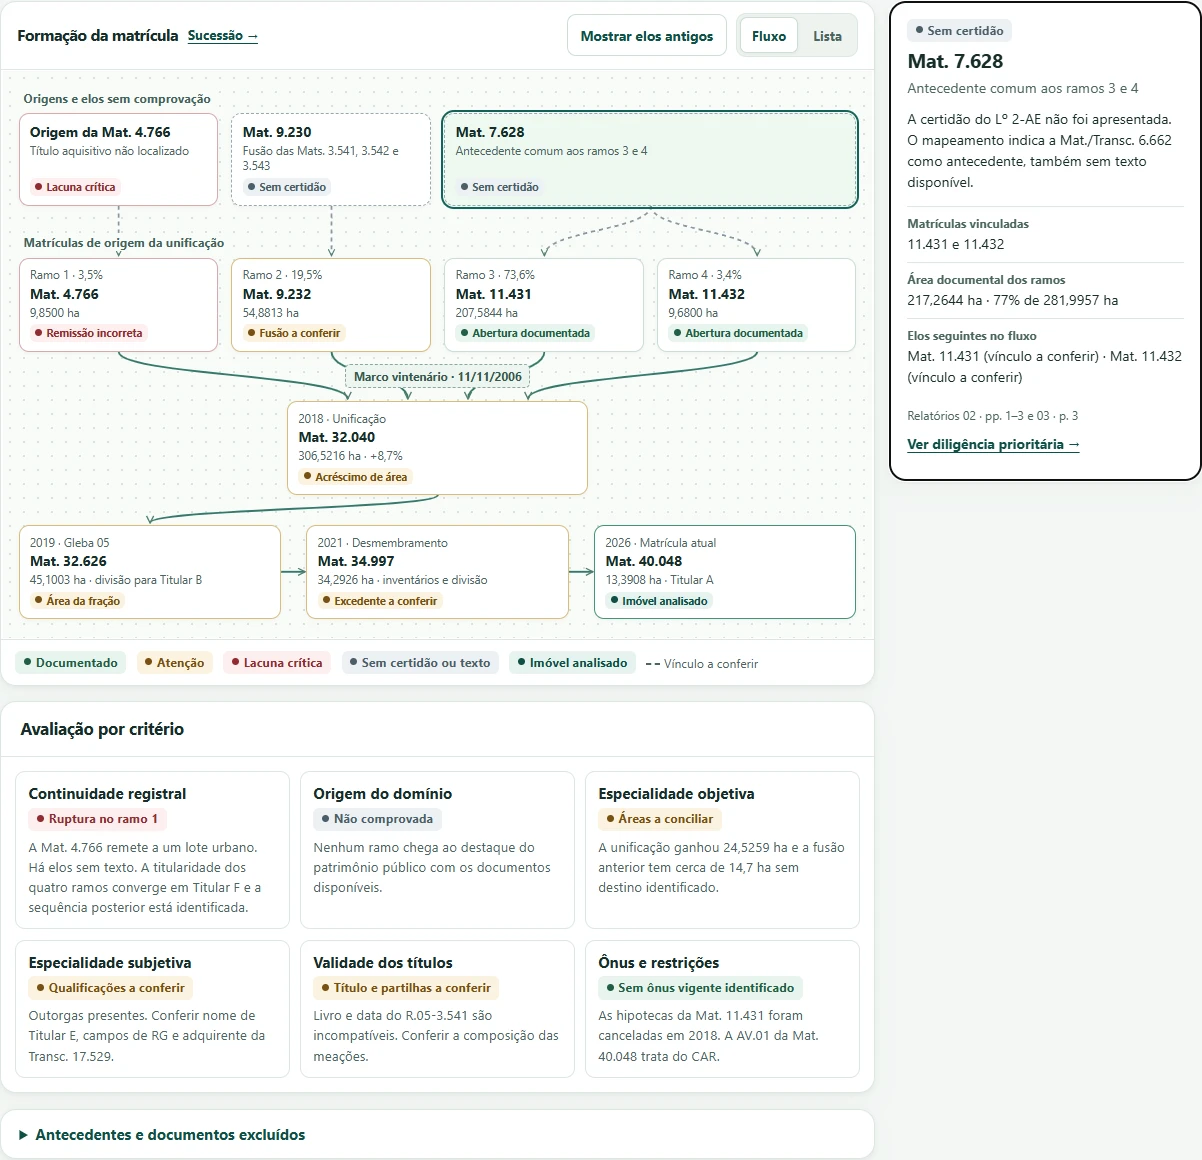
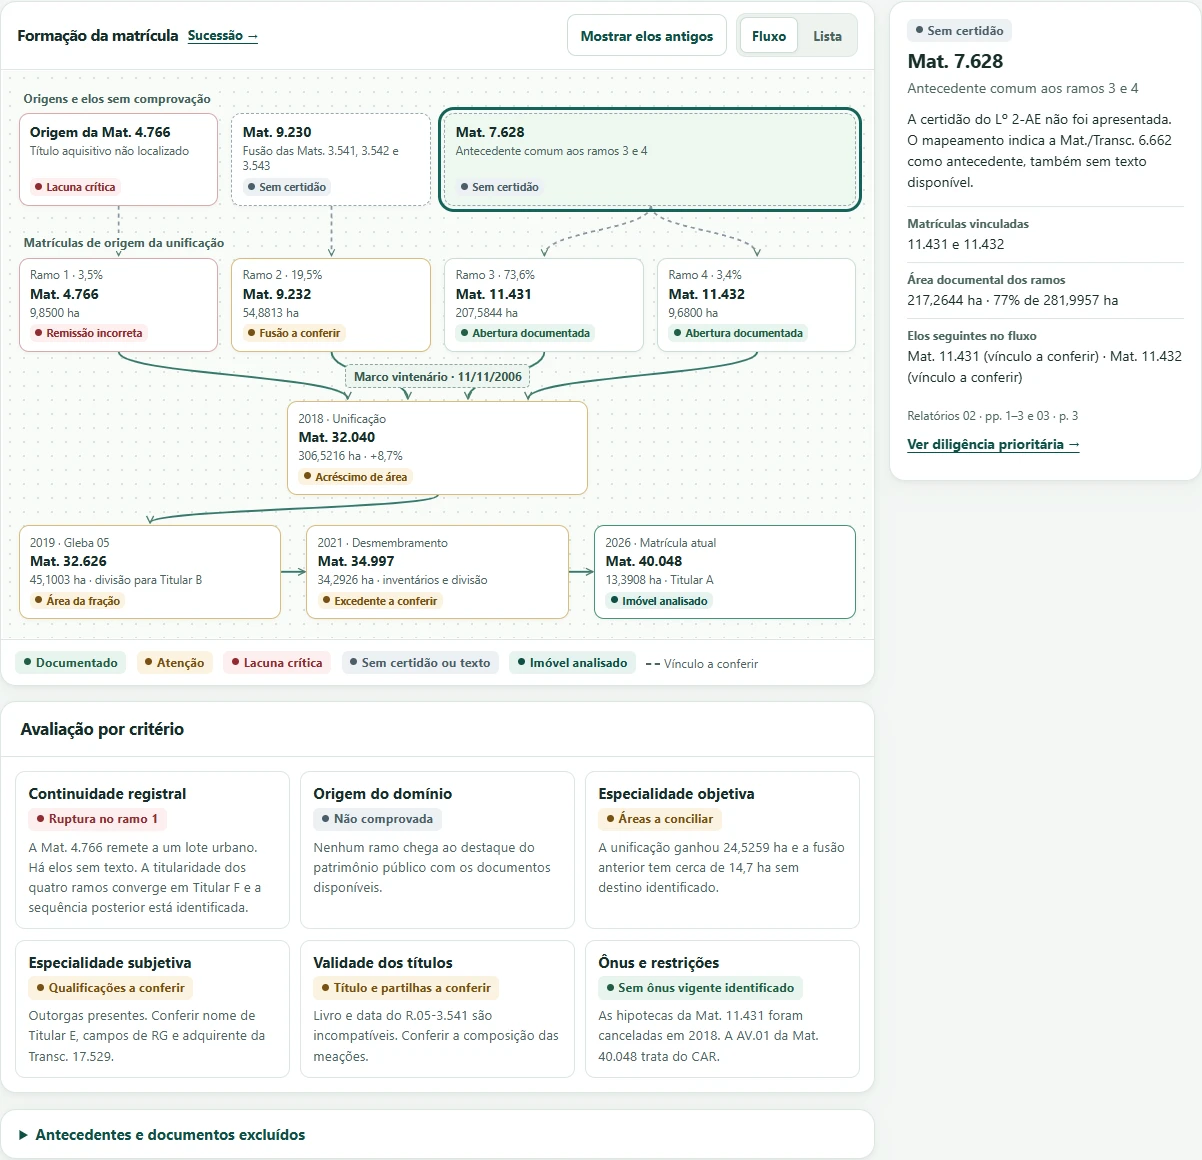
Padroniza a Tri7 e dá foco aos elos da cadeia Atlas

Changed region(s): [[0.3386, 0.0931, 0.7388, 0.1862], [0.985, 0.0, 1.0, 0.4034], [0.7388, 0.0, 0.7696, 0.031]]

diff --git a/public/reports/prototipo-atlas-2026-11-13.html b/public/reports/prototipo-atlas-2026-11-13.html
@@ -3,7 +3,7 @@
 <head>
   <meta charset="utf-8">
   <!-- Atualize os hashes SHA-256 desta política ao editar os blocos de estilo ou script. -->
-  <meta http-equiv="Content-Security-Policy" content="default-src 'none'; script-src 'sha256-ED+GocgzsDQOvp0xRZuHsrbJz97uKvmdtKTKizDVZRc='; style-src 'sha256-9xb1q2VTFPabRIztEfLVDv0dGW3eRWlcO4mu8b+QSy8='; img-src data:; base-uri 'none'; form-action 'none'">
+  <meta http-equiv="Content-Security-Policy" content="default-src 'none'; script-src 'sha256-TyxYKiEdbDGqTr/AIgNMs/5WHhEbLOk+r47dH/zar4c='; style-src 'sha256-+CFyVixWUwPgIOAU2yxZ5v0F8MsUt51MHb2PwPJdKYU='; img-src data:; base-uri 'none'; form-action 'none'">
   <meta name="viewport" content="width=device-width, initial-scale=1">
   <meta name="color-scheme" content="light">
   <meta name="theme-color" content="#f4f7f5">
@@ -229,6 +229,7 @@
       position: relative; display: flex; flex-direction: column; align-items: flex-start; min-width: 0;
       gap: .13rem; text-align: left; color: var(--ink); background: var(--paper); border: 1px solid #cbded4;
       padding: .55rem .63rem; border-radius: 10px; box-shadow: 0 1px 3px #17392c0c;
+      scroll-margin: .45rem;
     }
     .node:hover { border-color: #649684; background: #f3f9f5; }
     .node[aria-pressed="true"] { outline: 2px solid var(--teal); outline-offset: 1px; background: #edf8f0; }
@@ -463,7 +464,7 @@
               <div><dt>Ônus vigentes</dt><dd>Nenhum identificado na Mat. 40.048</dd></div>
               <div><dt>AV.01</dt><dd>Traslado da inscrição no CAR</dd></div>
             </dl>
-            <div class="card-foot"><a class="text-link" href="#conferencia">Ver conferência com o Tri7 <span class="arrow" aria-hidden="true">&nbsp;→</span></a></div>
+            <div class="card-foot"><a class="text-link" href="#conferencia">Ver conferência com a Tri7 <span class="arrow" aria-hidden="true">&nbsp;→</span></a></div>
           </article>
         </div>
         <div class="scope-grid" role="group" aria-label="Recortes da cadeia dominial" data-interactive>
@@ -662,7 +663,7 @@
         </div>
       </section>
       <section id="conferencia" data-section tabindex="-1" aria-labelledby="heading-conferencia">
-        <div class="section-heading"><div><h2 id="heading-conferencia">Conferência com o Tri7</h2><p>Compare o cadastro, a leitura original e o resultado da revisão documental.</p></div></div>
+        <div class="section-heading"><div><h2 id="heading-conferencia">Conferência com a Tri7</h2><p>Compare o cadastro, a leitura original e o resultado da revisão documental.</p></div></div>
         <div class="stack">
           <article class="card" data-interactive>
             <div class="findings-toolbar row between">
@@ -733,11 +734,11 @@
                 <ul><li><span class="archive-value">Ocorrência relacionada ao imóvel</span><span class="archive-value"> · Av.1</span></li>
                 </ul></div>
               </details>
-              <details class="archive-item"><summary>Conferência original com o Tri7</summary>
+              <details class="archive-item"><summary>Conferência original com a Tri7</summary>
                 <div><div><p class="archive-heading">Conferência com o sistema Tri7</p>
                 <span class="archive-control">Atualizar</span></div>
                 <div><p><span class="archive-value"><span></span>5 conferem</span><span class="archive-value"><span></span>0 divergem</span><span class="archive-value"><span></span>5 só de um lado</span></p>
-                <div class="archive-table-scroll" role="region" aria-label="Comparação original com o Tri7" tabindex="0"><table><thead><tr><th>Campo</th><th>Cadastro Tri7</th><th>Leitura do Atlas</th><th>Veredito</th></tr>
+                <div class="archive-table-scroll" role="region" aria-label="Comparação original com a Tri7" tabindex="0"><table><thead><tr><th>Campo</th><th>Cadastro Tri7</th><th>Leitura do Atlas</th><th>Veredito</th></tr>
                 </thead><tbody><tr><td>Situação</td></tr>
                 <tr><td>Situação da matrícula</td><td>Ativo</td><td>ATIVA</td><td><span class="archive-value"><span></span>Confere</span></td></tr>
                 </tbody>
@@ -932,7 +933,7 @@
         id: 'precisao-area', type: 'attention', title: 'Área comparada com precisões diferentes',
         impact: 'A captura exibe 13,39 ha no cadastro e 13,3908 ha na leitura. Se os números forem exatos, a diferença equivale a 8 m².',
         action: 'Conferir o valor armazenado e eventual arredondamento antes de marcar como igual.',
-        source: 'Captura Atlas · Conferência com o Tri7', link: '#conferencia', linkLabel: 'Ver comparação'
+        source: 'Captura Atlas · Conferência com a Tri7', link: '#conferencia', linkLabel: 'Ver comparação'
       },
       {
         id: 'qualificacao-pessoas', type: 'attention', title: 'Erros materiais de nome e RG',
@@ -1245,6 +1246,7 @@
     const sections = [...document.querySelectorAll('[data-section]')];
     const smallDetail = matchMedia('(max-width: 1080px)');
     const mobile = matchMedia('(max-width: 710px)');
+    const reducedMotion = matchMedia('(prefers-reduced-motion: reduce)');
     const state = { scope: 'completa', node: 'm40048', view: null, filter: 'risk', compare: 'review', expanded: false };
     const filters = [
       ['all', 'Todos'], ['block', 'Impeditivos'], ['risk', 'Podem impedir'],
@@ -1510,22 +1512,25 @@
       drawRequest = requestAnimationFrame(drawEdges);
     }
 
-    function focusTarget(target, block = 'start') {
+    function focusTarget(target, block = 'start', smooth = false) {
       target.focus({ preventScroll: true });
-      if (block) target.scrollIntoView({ block });
+      if (block) target.scrollIntoView({
+        block, inline: 'nearest', behavior: smooth && !reducedMotion.matches ? 'smooth' : 'auto'
+      });
     }
 
     function selectNode(id) {
       state.node = id;
       if (!setRoute(`#cadeia/${state.scope}/${id}`, true)) return;
       renderNodeDetail(true);
-      if (smallDetail.matches) focusTarget(get('node-detail'));
+      if (smallDetail.matches) focusTarget(get('node-detail'), 'start', true);
+      else focusNode(id, 'nearest');
     }
 
-    function focusSelectedNode() {
+    function focusNode(id = state.node, block = 'center') {
       const container = get('flow-list').hidden ? get('diagram') : get('flow-list');
-      const node = container.querySelector(`[data-id="${state.node}"]`);
-      node?.focus();
+      const node = container.querySelector(`[data-id="${id}"]`);
+      if (node) focusTarget(node, block, true);
     }
 
     function setRoute(hash, replace = false) {
@@ -1591,8 +1596,11 @@
         state.node = isNode ? chainTarget : chainTarget === 'sucessao' || target?.id === 'sucessao' ? 'm34997' : 'm40048';
         if (Object.hasOwn(earlyNodes, state.node)) state.expanded = true;
         renderChain();
-        if (isNode) target = get('node-detail');
-        else if (chainAnchors.has(chainTarget)) target = get(chainAnchors.get(chainTarget));
+        if (isNode && !keepPosition && !sectionStart) {
+          focusNode();
+          return;
+        }
+        if (chainAnchors.has(chainTarget)) target = get(chainAnchors.get(chainTarget));
       } else if (section.id === 'achados') {
         const item = findings.find((finding) => finding.id === detail || `achado-${finding.id}` === target?.id);
         if (item) state.filter = item.type;
@@ -1677,7 +1685,7 @@
     get('cadeia').addEventListener('click', (event) => {
       const node = event.target.closest('.node[data-id]');
       if (node) selectNode(node.dataset.id);
-      if (event.target.closest('.return-to-node')) focusSelectedNode();
+      if (event.target.closest('.return-to-node')) focusNode();
     });
     get('copy-summary').addEventListener('click', openSummary);
     get('copy-text').addEventListener('click', copySummary);
@@ -1687,7 +1695,12 @@
       event.preventDefault();
       navigate(link.hash);
     });
-    mobile.addEventListener('change', () => { if (activeSection?.id === 'cadeia') renderView(); });
+    mobile.addEventListener('change', () => {
+      if (activeSection?.id !== 'cadeia' || state.view) return;
+      const focused = document.activeElement.closest('.node[data-id]');
+      renderView();
+      if (focused && !focused.isConnected) focusNode(focused.dataset.id, 'nearest');
+    });
     function onHistoryChange() {
       if (lastHistoryHash === location.hash) return;
       lastHistoryHash = location.hash;

diff --git a/components/AtlasStructureReport.tsx b/components/AtlasStructureReport.tsx
@@ -9,7 +9,7 @@ const previews = [
   { id: 'sucessao', title: 'Sucessão, doação e divisão', section: 'sucessao', description: 'O recorte mostra como as frações foram transmitidas e quais glebas resultaram da divisão. A vista completa começa nos inventários e destaca a matrícula em análise.' },
   { id: 'imovel', title: 'Imóvel, titulares e ônus', section: 'imovel', description: 'O indicador real agrupa os campos cadastrais. Titularidade e ônus ficam em blocos próprios, com o CAR identificado pelo ato de origem.' },
   { id: 'atos', title: 'Atos e fontes', section: 'atos', description: 'Cada ato tem um resumo e abre o texto da captura sob demanda. As fontes consultadas aparecem ao lado para facilitar a conferência.' },
-  { id: 'conferencia', title: 'Conferência com o Tri7', section: 'conferencia', description: 'O quadro compara o cadastro, a leitura do Atlas e a revisão documental. A leitura original permanece acessível em um bloco recolhido.' },
+  { id: 'conferencia', title: 'Conferência com a Tri7', section: 'conferencia', description: 'O quadro compara o cadastro, a leitura do Atlas e a revisão documental. A leitura original permanece acessível em um bloco recolhido.' },
   { id: 'celular', title: 'Navegação no celular', section: 'cadeia', description: 'Em telas estreitas, o gráfico tem uma vista em lista que explicita o próximo elo. O detalhe do registro abre abaixo e mantém o caminho de volta.' },
 ] as const;
 
